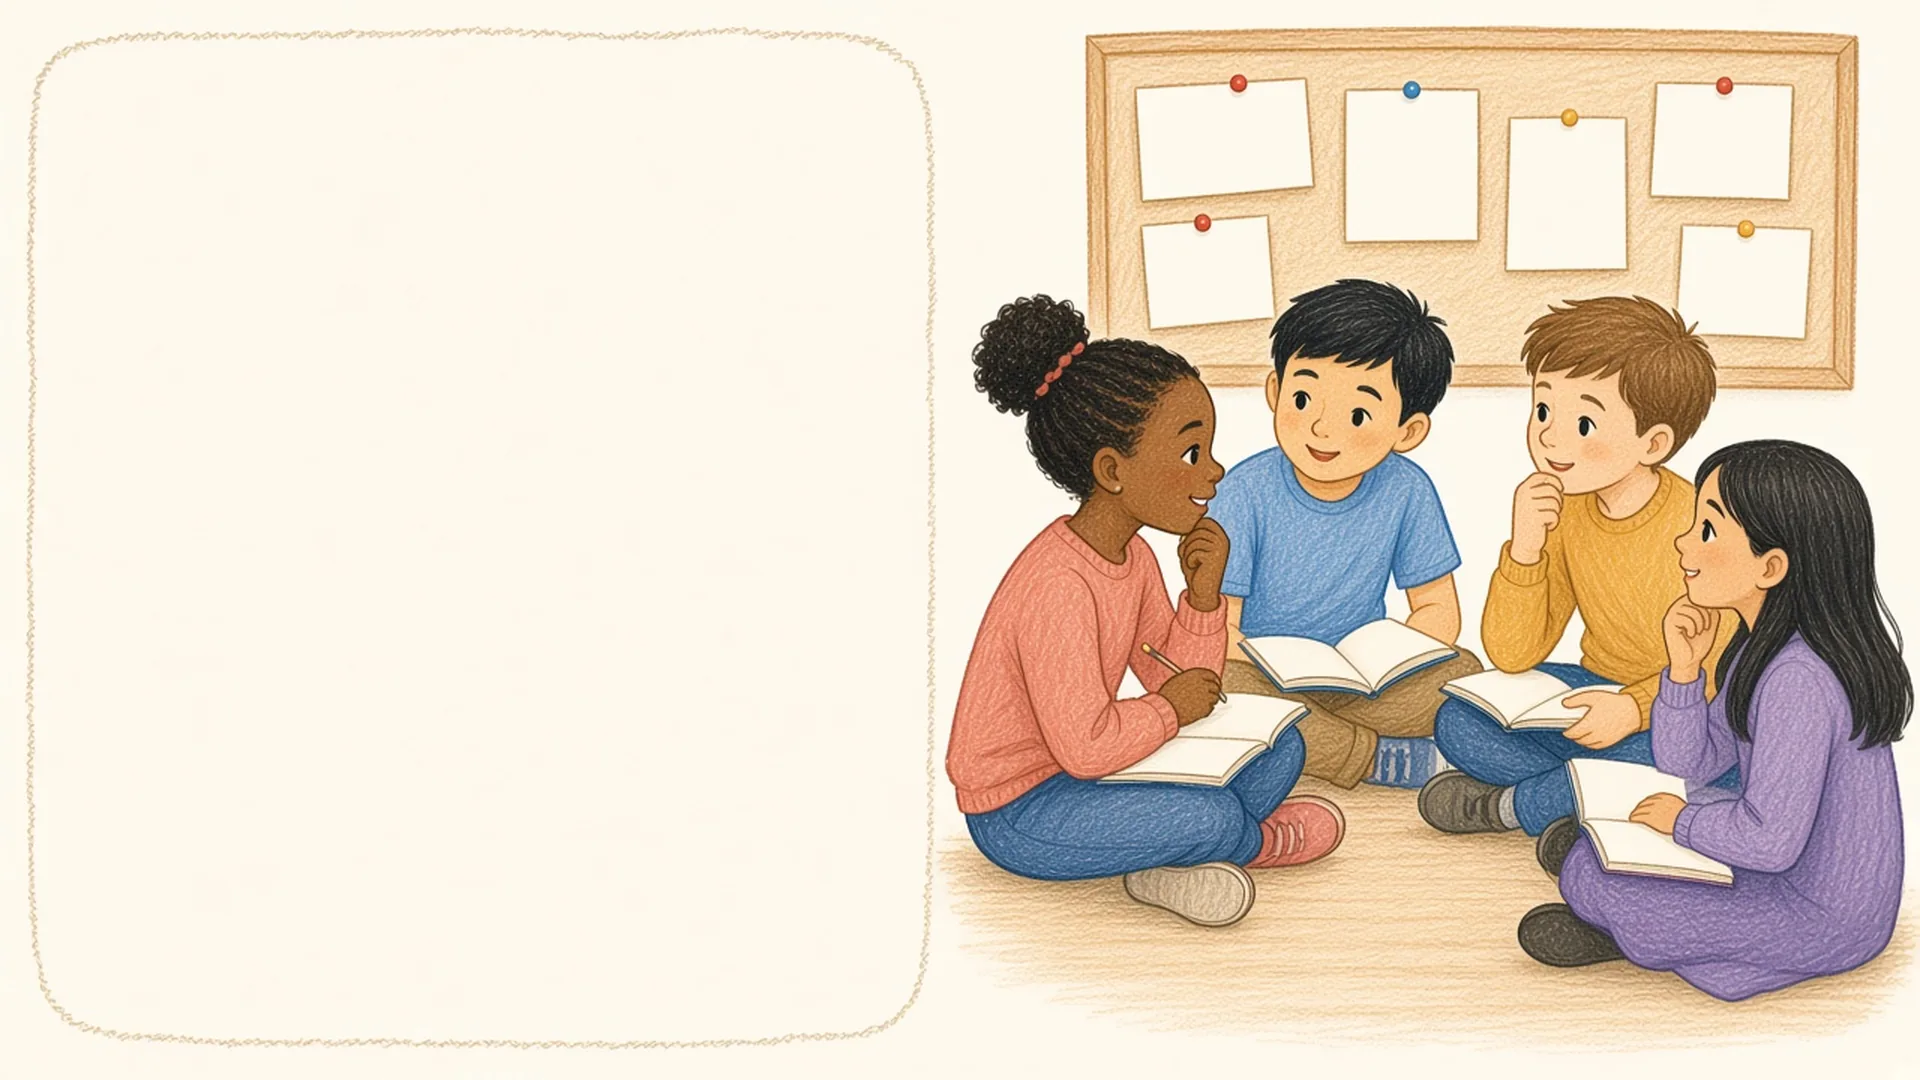
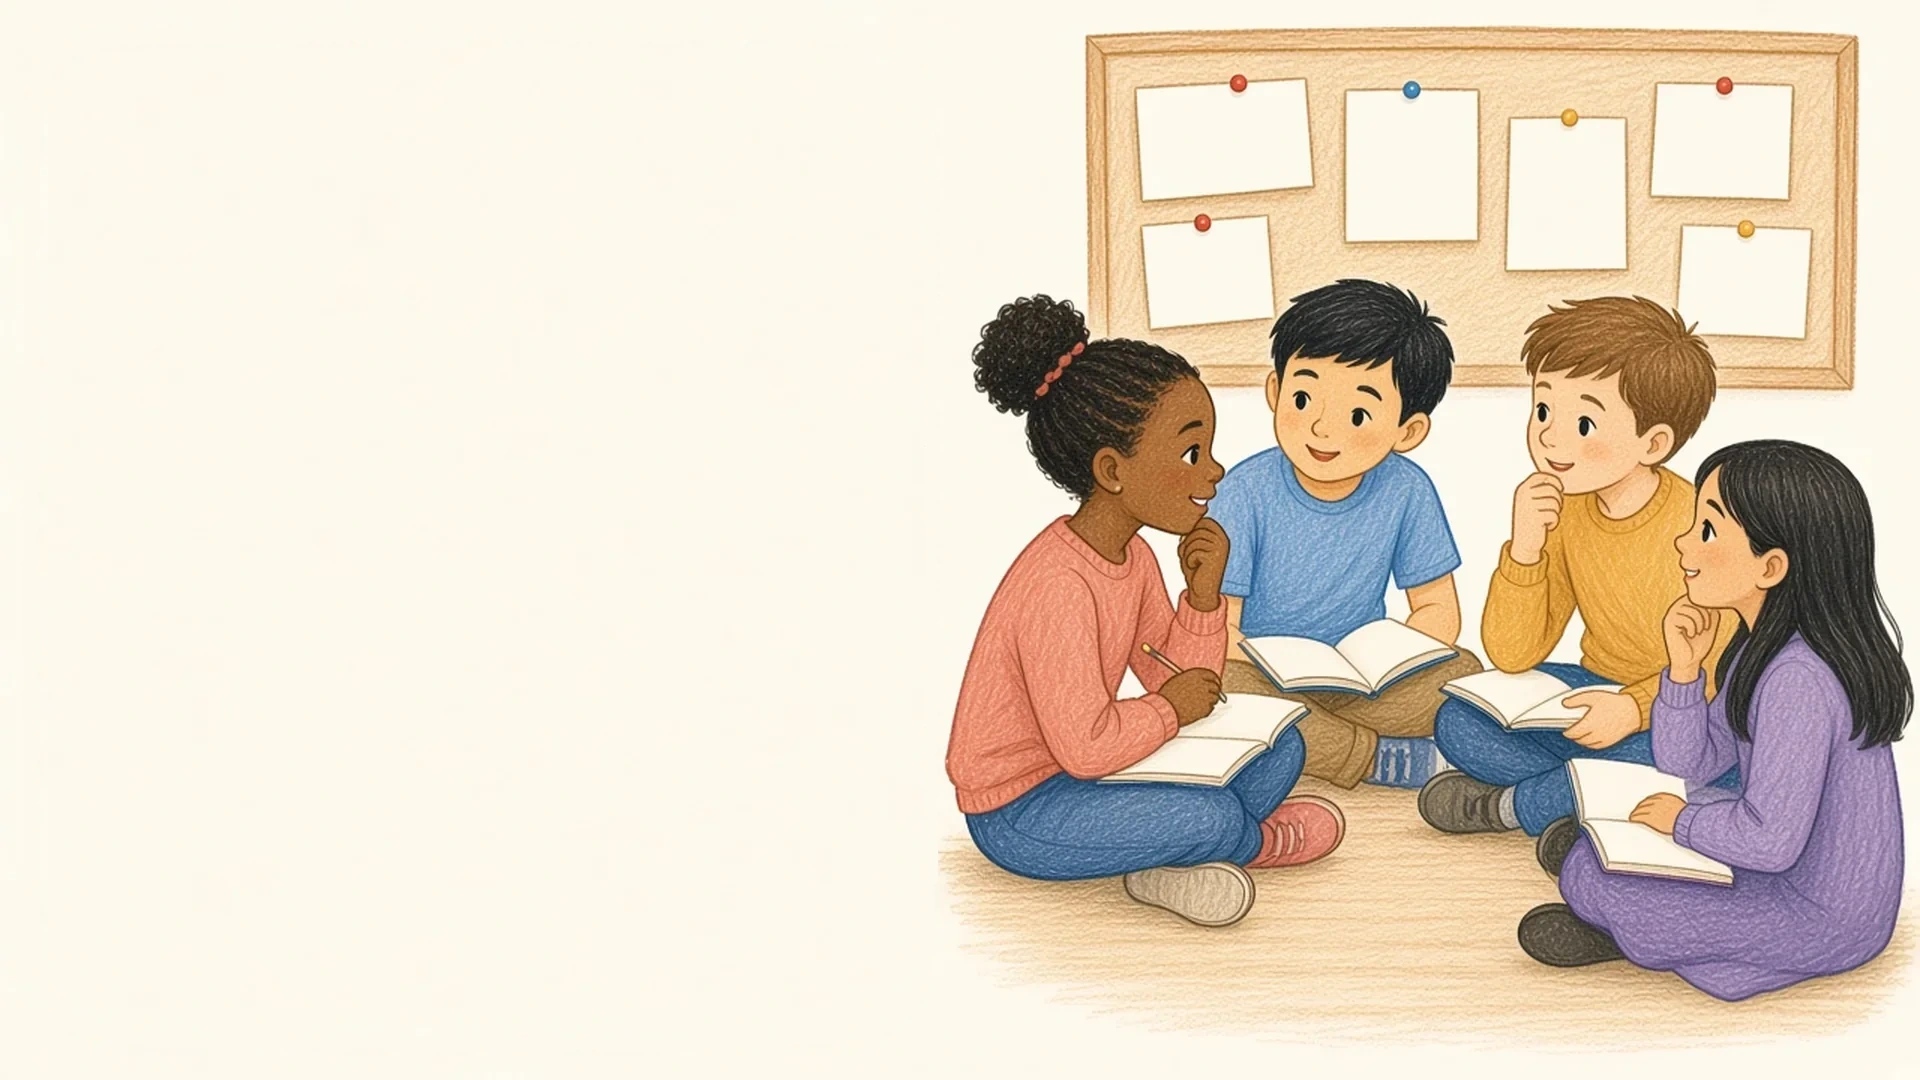
s18-21: left-column sheet_flat, kill baked discuss frame, ruled baselines
Move discuss/refs/tools sheets into the left cream column (Leo TEXT-ON-ART
rects; tools ~40% width). Erase the hand-drawn rounded frame baked into
discussion/bg.webp. Size text to ruled pitch with scroll when APA/Qs overflow.
Tests updated for compact sheet_flat (no sheet_flat_wide on stage).

diff --git a/public/diy-pbl-bookshare/bs-pages.js b/public/diy-pbl-bookshare/bs-pages.js
@@ -558,9 +558,9 @@ export const PAGES = SLIDES.map((slide) => ({
       buildKeyTermsOverlay(root, T, slide.bullets || []);
       buildKeytermsArt(root, T);
     } else if (slide.kind === "discuss") {
-      // Leo sheet_flat (972x1300): upright ruled page, no counter-rotation
+      // Leo TEXT-ON-ART: paper 60,50,840,980; kids stay x>950. Ruled pitch ~5.31% of sheet.
       const group = h("div", "bs-paper-group");
-      applyRect(group, 520, 20, 780, 1040, 0);
+      applyRect(group, 60, 50, 840, 980, -1);
       group.style.transformOrigin = "50% 50%";
       const paper = img(`${PAPER}/sheet_flat.webp`, "bs-paper");
       paper.setAttribute("aria-hidden", "true");
@@ -575,8 +575,8 @@ export const PAGES = SLIDES.map((slide) => ({
       tape2.style.cssText = "position:absolute;right:8%;top:1.5%;width:22%;height:5%;object-fit:fill;transform:rotate(3deg);z-index:8;";
       group.appendChild(tape2);
       const panel = surface("discuss", "bs-discuss on-art");
-      // Text inside the red ruled margins of sheet_flat
-      panel.style.cssText = "position:absolute;left:14%;top:12%;width:72%;height:76%;overflow:hidden;box-sizing:border-box;padding:0;font-size:clamp(11px,1.15cqw,19px);";
+      // Text 150,140,680,820 on art -> ~10.7%/9.2%/81%/83.7% of sheet; lh = ruled pitch
+      panel.style.cssText = "position:absolute;left:11%;top:9%;width:78%;height:82%;overflow-y:auto;overflow-x:hidden;box-sizing:border-box;padding:0;font-size:clamp(13px,1.35cqw,22px);line-height:1.55;";
       (slide.questions || []).forEach((q, i) => {
         const card = h("div", `bs-dq-card dq${i} bs-reveal`);
         card.innerHTML = `<b>Q${i + 1}.</b> ${fx(q)}`;
@@ -589,19 +589,19 @@ export const PAGES = SLIDES.map((slide) => ({
       const nRes = (slide.resources || []).length;
       const isTools = /tools/i.test(slide.title || "") || nRes <= 4;
       if (isTools) {
-        // Leo sheet_flat_wide (1320x1020): upright landscape ruled page
+        // Compact sheet_flat (~40% width) on left cream; body-size text on ruled lines
         const group = h("div", "bs-paper-group");
-        applyRect(group, 180, 90, 1400, 900, 0);
-        const paper = img(`${PAPER}/sheet_flat_wide.webp`, "bs-paper");
+        applyRect(group, 50, 40, 760, 1000, 0);
+        const paper = img(`${PAPER}/sheet_flat.webp`, "bs-paper");
         paper.setAttribute("aria-hidden", "true");
         paper.style.cssText = "position:absolute;inset:0;width:100%;height:100%;object-fit:fill;";
         group.appendChild(paper);
         const tape = img(`${PAPER}/tape_a.webp`, "bs-paper-tape");
         tape.setAttribute("aria-hidden", "true");
-        tape.style.cssText = "position:absolute;left:38%;top:-1%;width:18%;height:7%;object-fit:fill;transform:rotate(-3deg);z-index:8;";
+        tape.style.cssText = "position:absolute;left:38%;top:-1%;width:22%;height:5%;object-fit:fill;transform:rotate(-3deg);z-index:8;";
         group.appendChild(tape);
         const panel = surface("resources", "bs-resources-panel bs-resources-panel--compact bs-reveal on-art");
-        panel.style.cssText = "position:absolute;left:14%;top:12%;width:72%;height:76%;overflow:hidden;box-sizing:border-box;";
+        panel.style.cssText = "position:absolute;left:12%;top:10%;width:76%;height:80%;overflow-y:auto;overflow-x:hidden;box-sizing:border-box;font-size:clamp(16px,1.7cqw,26px);line-height:1.55;";
         const heading = h("div", "bs-res-h on-art-t");
         heading.textContent = slide.resHeading || slide.title || "Tools";
         panel.appendChild(heading);
@@ -615,9 +615,9 @@ export const PAGES = SLIDES.map((slide) => ({
         group.appendChild(panel);
         root.appendChild(group);
       } else {
-        // Leo sheet_flat (972x1300): upright tall ruled page for APA references
+        // Leo TEXT-ON-ART s20: paper 50,40,900,1000; shelf reads on the right
         const group = h("div", "bs-paper-group");
-        applyRect(group, 500, 20, 800, 1040, 0);
+        applyRect(group, 50, 40, 860, 1000, -0.8);
         const paper = img(`${PAPER}/sheet_flat.webp`, "bs-paper");
         paper.setAttribute("aria-hidden", "true");
         paper.style.cssText = "position:absolute;inset:0;width:100%;height:100%;object-fit:fill;";
@@ -631,7 +631,8 @@ export const PAGES = SLIDES.map((slide) => ({
         tape2.style.cssText = "position:absolute;right:8%;top:1.5%;width:22%;height:5%;object-fit:fill;transform:rotate(3deg);z-index:8;";
         group.appendChild(tape2);
         const panel = surface("resources", "bs-resources-panel bs-reveal on-art");
-        panel.style.cssText = "position:absolute;left:14%;top:12%;width:72%;height:76%;overflow:hidden;box-sizing:border-box;";
+        // Leo: 22-24px at 1080p; scroll if 8 APA refs clip
+        panel.style.cssText = "position:absolute;left:10%;top:8%;width:80%;height:84%;overflow-y:auto;overflow-x:hidden;box-sizing:border-box;font-size:clamp(12px,1.2cqw,18px);line-height:1.5;";
         const heading = h("div", "bs-res-h on-art-t");
         heading.textContent = slide.resHeading || slide.title || "References";
         panel.appendChild(heading);

diff --git a/public/diy-pbl-bookshare/bs.css b/public/diy-pbl-bookshare/bs.css
@@ -1150,3 +1150,107 @@ body[data-kind="conclude"] .bs-paper-group {
   padding: 0 !important;
 }
 
+/* ===== Kill left-column rounded/dashed frames on paper slides 18-21 ===== */
+body[data-kind="conclude"] .fl-art,
+body[data-kind="discuss"] .fl-art,
+body[data-kind="resources"] .fl-art,
+body[data-kind="conclude"] .fl-scene,
+body[data-kind="discuss"] .fl-scene,
+body[data-kind="resources"] .fl-scene,
+body[data-kind="conclude"] .fl-frame,
+body[data-kind="discuss"] .fl-frame,
+body[data-kind="resources"] .fl-frame,
+body[data-kind="conclude"] .bs-scene,
+body[data-kind="discuss"] .bs-scene,
+body[data-kind="resources"] .bs-scene,
+body[data-kind="conclude"] .bs-paper-group,
+body[data-kind="discuss"] .bs-paper-group,
+body[data-kind="resources"] .bs-paper-group {
+  border: none !important;
+  outline: none !important;
+  box-shadow: none !important;
+  border-radius: 0 !important;
+  -webkit-mask-image: none !important;
+  mask-image: none !important;
+}
+body[data-kind="conclude"] .fl-art::before,
+body[data-kind="discuss"] .fl-art::before,
+body[data-kind="resources"] .fl-art::before,
+body[data-kind="conclude"] .fl-art::after,
+body[data-kind="discuss"] .fl-art::after,
+body[data-kind="resources"] .fl-art::after,
+body[data-kind="conclude"] .fl-scene::before,
+body[data-kind="discuss"] .fl-scene::before,
+body[data-kind="resources"] .fl-scene::before,
+body[data-kind="conclude"] .fl-scene::after,
+body[data-kind="discuss"] .fl-scene::after,
+body[data-kind="resources"] .fl-scene::after,
+body[data-kind="conclude"] .fl-frame::before,
+body[data-kind="discuss"] .fl-frame::before,
+body[data-kind="resources"] .fl-frame::before,
+body[data-kind="conclude"] .fl-frame::after,
+body[data-kind="discuss"] .fl-frame::after,
+body[data-kind="resources"] .fl-frame::after,
+body[data-kind="conclude"] .bs-scene::after,
+body[data-kind="discuss"] .bs-scene::after,
+body[data-kind="resources"] .bs-scene::after,
+body[data-kind="conclude"] .bs-paper-group::before,
+body[data-kind="discuss"] .bs-paper-group::before,
+body[data-kind="resources"] .bs-paper-group::before,
+body[data-kind="conclude"] .bs-paper-group::after,
+body[data-kind="discuss"] .bs-paper-group::after,
+body[data-kind="resources"] .bs-paper-group::after {
+  content: none !important;
+  display: none !important;
+  border: none !important;
+  background: none !important;
+  box-shadow: none !important;
+}
+/* Theme band stays; keep ::before width 0 on cream paper slides */
+body[data-kind="conclude"] .bs-scene::before,
+body[data-kind="discuss"] .bs-scene::before,
+body[data-kind="resources"] .bs-scene::before {
+  width: 0 !important;
+  background: transparent !important;
+}
+/* Paper group is the CQ root so ruled line-height tracks sheet height */
+.bs-paper-group {
+  container-type: size;
+  container-name: paper;
+}
+.bs-paper-group .bs-discuss,
+.bs-paper-group .bs-discuss .bs-dq-card,
+.bs-paper-group .bs-resources-panel,
+.bs-paper-group .bs-resources-panel .bs-apa li {
+  /* sheet_flat ruled pitch ≈ 5.31% of sheet height */
+  line-height: 5.31cqh !important;
+}
+.bs-paper-group .bs-discuss {
+  font-size: 3.35cqh !important; /* ~Patrick Hand 30px at 1080 on a 980-tall sheet */
+}
+.bs-paper-group .bs-resources-panel {
+  font-size: 2.55cqh !important; /* ~22-24px at 1080 on a 1000-tall sheet */
+}
+.bs-paper-group .bs-resources-panel--compact {
+  font-size: 3.1cqh !important; /* body size on the smaller tools sheet */
+}
+.bs-paper-group .bs-discuss .bs-dq-card {
+  margin: 0 0 0.35em !important;
+}
+.bs-paper-group .bs-resources-panel .bs-apa {
+  margin: 0.2em 0 0;
+  padding: 0;
+  list-style: none;
+}
+.bs-paper-group .bs-resources-panel .bs-apa li {
+  margin: 0 0 0.55em !important;
+  padding-left: 1.5em;
+  text-indent: -1.5em; /* APA hanging indent */
+}
+
+
+.bs-paper-group .bs-discuss,
+.bs-paper-group .bs-resources-panel {
+  scrollbar-width: thin;
+  scrollbar-color: rgba(60,50,40,.35) transparent;
+}
